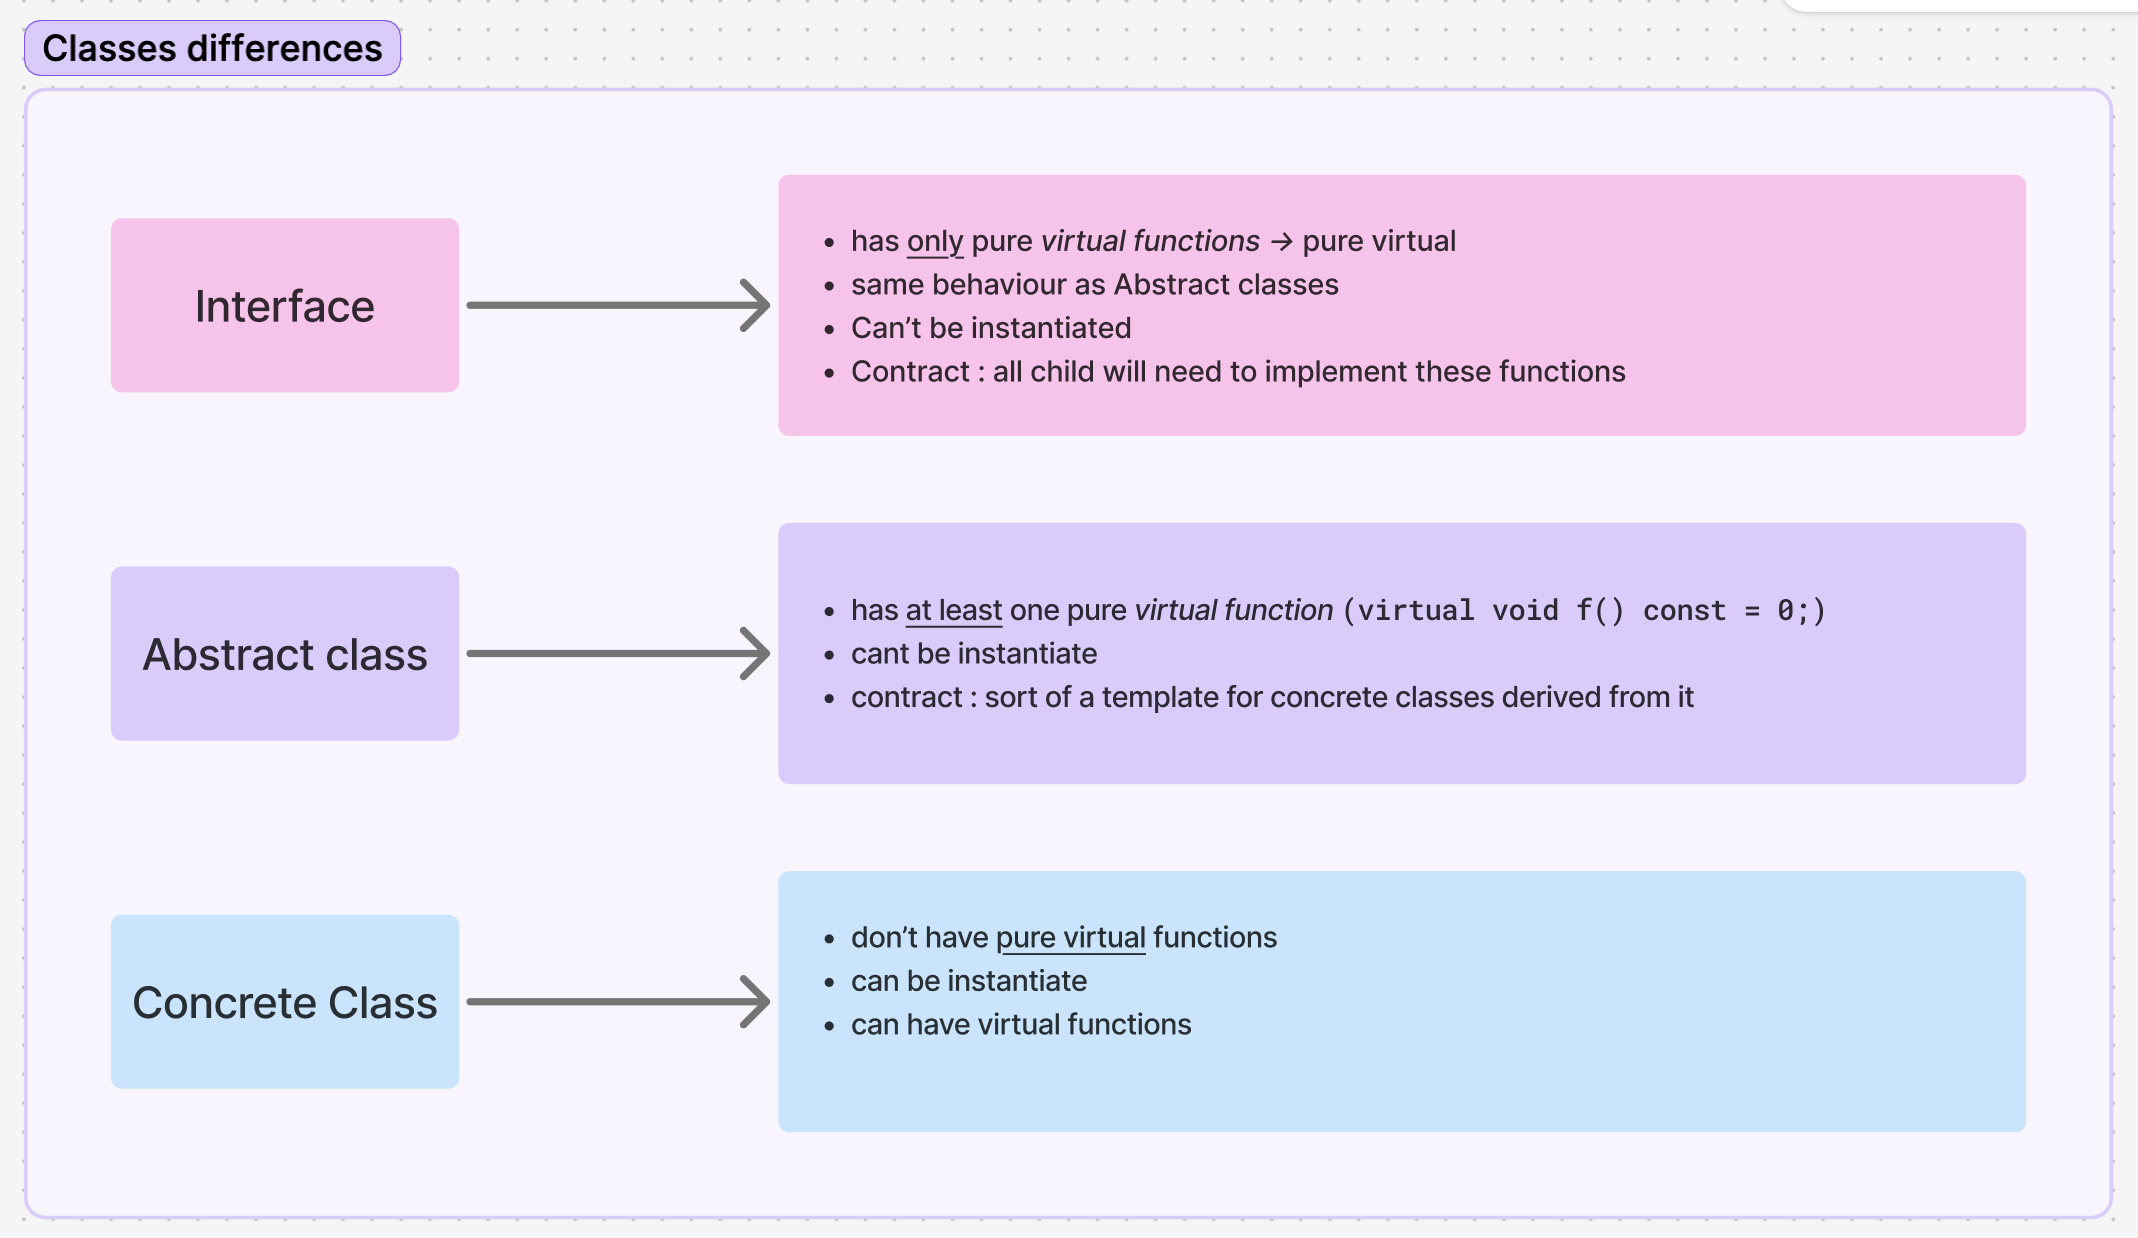
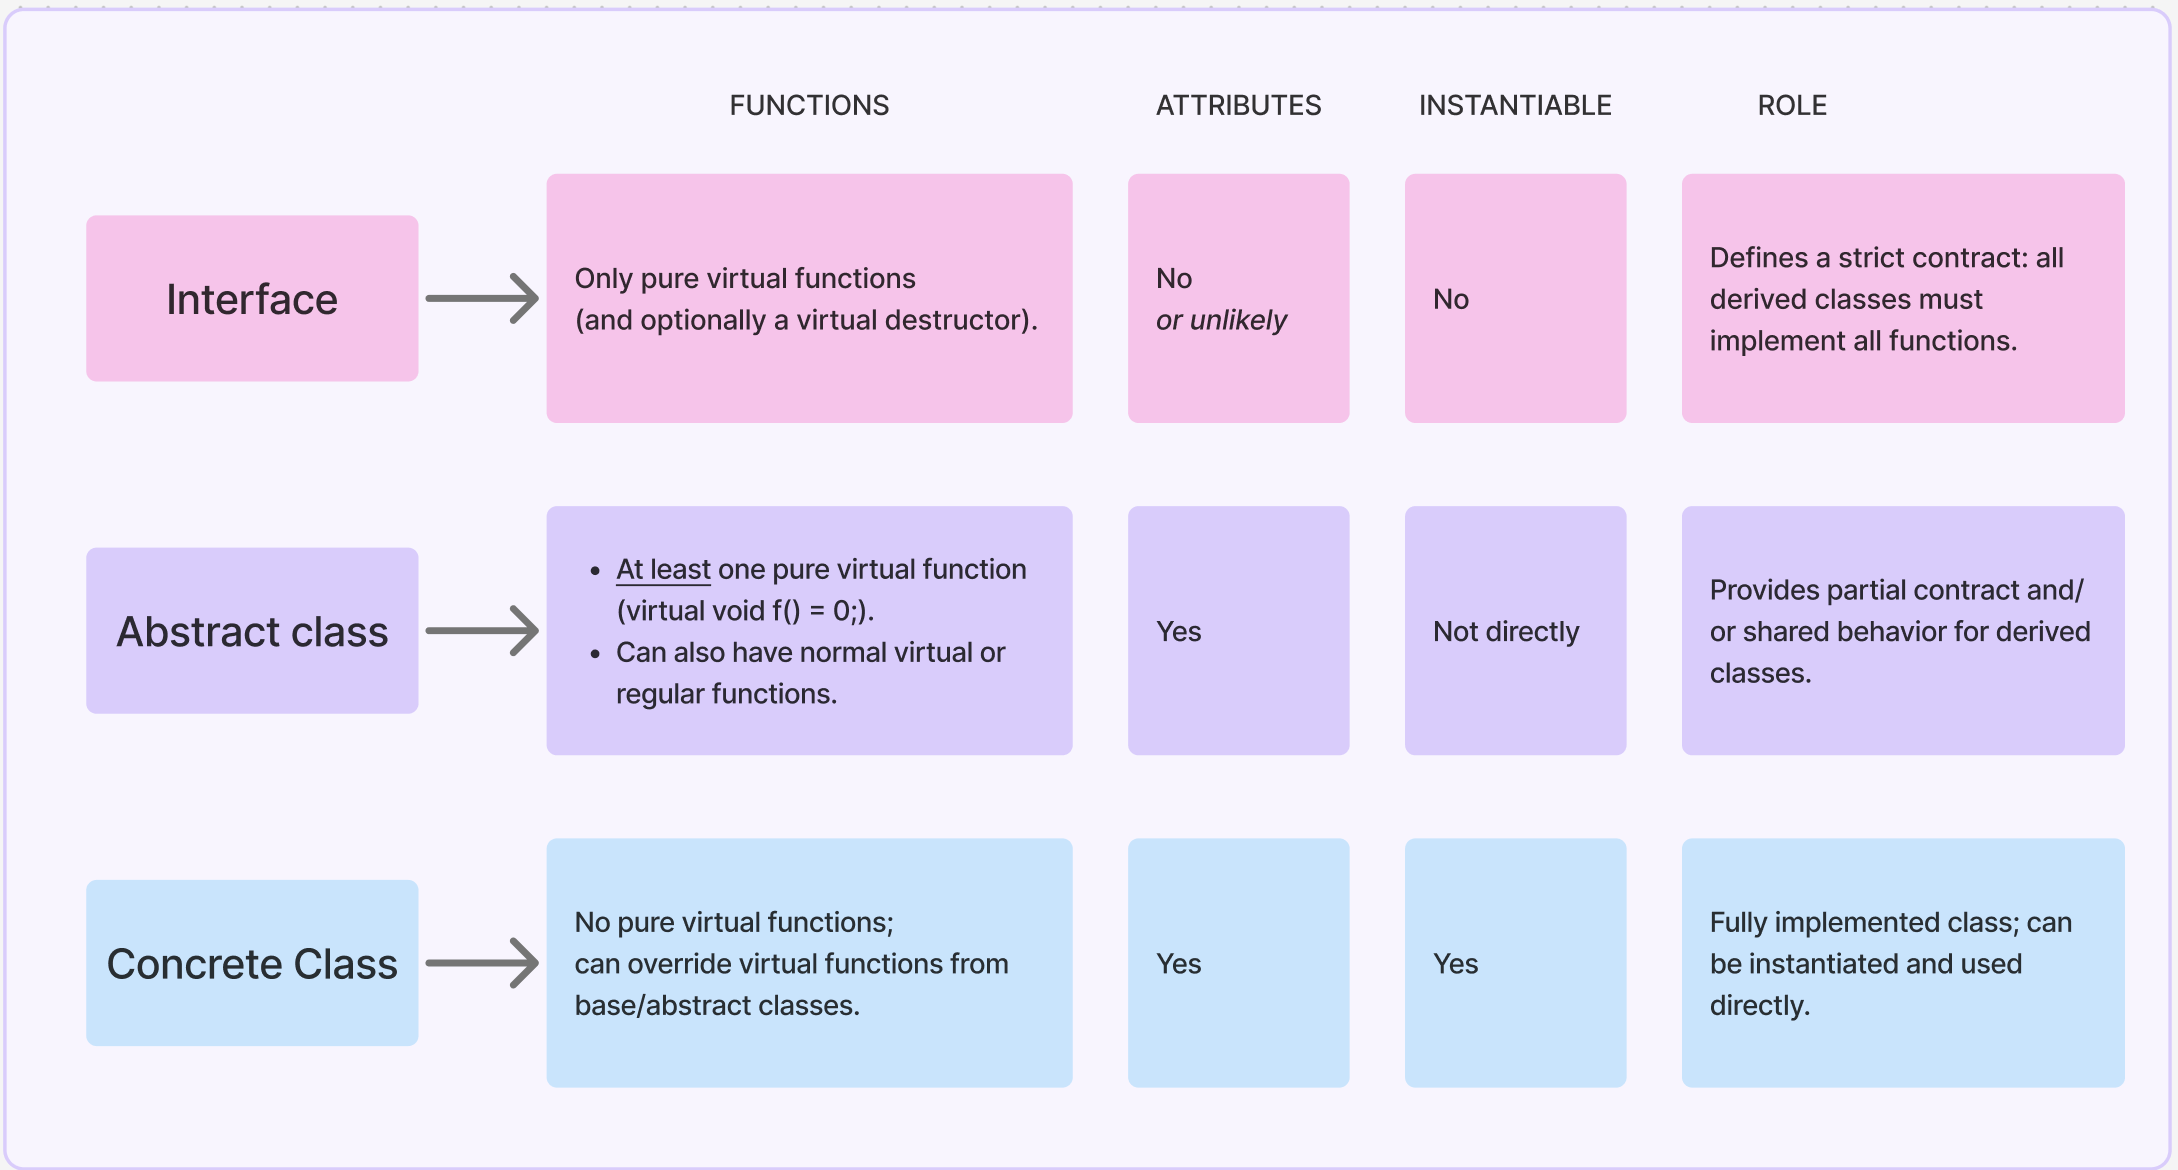
add stuff

Changed region(s): [[0.0, 0.0, 1.0, 1.0], [0.3087, 0.0615, 0.4322, 0.0923], [0.8026, 0.0615, 0.8644, 0.0923]]

diff --git a/CPP04/ex03/src/MateriaSource.cpp b/CPP04/ex03/src/MateriaSource.cpp
@@ -6,7 +6,7 @@
 /*   By: hlichten <marvin@42lausanne.ch>            +#+  +:+       +#+        */
 /*                                                +#+#+#+#+#+   +#+           */
 /*   Created: 2025/12/28 16:13:22 by hlichten          #+#    #+#             */
-/*   Updated: 2026/01/12 22:52:46 by hlichten         ###   ########.fr       */
+/*   Updated: 2026/01/13 01:55:01 by hlichten         ###   ########.fr       */
 /*                                                                            */
 /* ************************************************************************** */
 
@@ -14,6 +14,7 @@
 #include "AMateria.hpp"
 
 // -------- Constructors and Destructor -----------
+
 MateriaSource::MateriaSource() {
 	for (int i = 0; i < 4; i++)
 		_materias[i] = NULL;
@@ -32,8 +33,7 @@ MateriaSource::MateriaSource(const MateriaSource& other) {
 MateriaSource& MateriaSource::operator=(const MateriaSource& other) {
 	if (this != &other) {
 		for (int i = 0; i < 4; i++) {
-//			if (_materias[i] != NULL)
-				delete _materias[i];
+			delete _materias[i];
 			if (other._materias[i])
 				_materias[i] = other._materias[i]->clone();
 			else
@@ -48,11 +48,7 @@ MateriaSource::~MateriaSource() {
 		delete _materias[i];
 }
 
-// -------- Other member functions ---------
-
-// Copies the Materia passed as a parameter and stores it in memory so it can be cloned later.
-// Like the Character, the MateriaSource can know at most 4 Materias. 
-// They are not necessarily unique.
+// -------- Other Member Functions ---------
 
 void MateriaSource::learnMateria(AMateria* m) {
 	if (!m)

diff --git a/CPP04/ex03/src/Cure.cpp b/CPP04/ex03/src/Cure.cpp
@@ -3,15 +3,16 @@
 /*                                                        :::      ::::::::   */
 /*   Cure.cpp                                           :+:      :+:    :+:   */
 /*                                                    +:+ +:+         +:+     */
-/*   By: hlichten <hlichten@student.42.fr>          +#+  +:+       +#+        */
+/*   By: hlichten <marvin@42lausanne.ch>            +#+  +:+       +#+        */
 /*                                                +#+#+#+#+#+   +#+           */
 /*   Created: 2025/12/21 18:37:40 by hlichten          #+#    #+#             */
-/*   Updated: 2025/12/28 19:46:24 by hlichten         ###   ########.fr       */
+/*   Updated: 2026/01/13 01:55:33 by hlichten         ###   ########.fr       */
 /*                                                                            */
 /* ************************************************************************** */
 
 #include "Cure.hpp"
 
+// -------- Constructors and Destructor -----------
 
 Cure::Cure() : AMateria("cure") {
 }
@@ -28,6 +29,8 @@ Cure& Cure::operator=(const Cure& other){
 
 Cure::~Cure(){
 }
+
+// -------- Other Member Functions -----------
 
 AMateria* Cure::clone() const{
     return new Cure(*this);

diff --git a/CPP04/ex03/src/AMateria.cpp b/CPP04/ex03/src/AMateria.cpp
@@ -3,15 +3,17 @@
 /*                                                        :::      ::::::::   */
 /*   AMateria.cpp                                       :+:      :+:    :+:   */
 /*                                                    +:+ +:+         +:+     */
-/*   By: hlichten <hlichten@student.42.fr>          +#+  +:+       +#+        */
+/*   By: hlichten <marvin@42lausanne.ch>            +#+  +:+       +#+        */
 /*                                                +#+#+#+#+#+   +#+           */
 /*   Created: 2025/12/21 18:00:59 by hlichten          #+#    #+#             */
-/*   Updated: 2025/12/28 20:14:01 by hlichten         ###   ########.fr       */
+/*   Updated: 2026/01/13 01:52:43 by hlichten         ###   ########.fr       */
 /*                                                                            */
 /* ************************************************************************** */
 
 #include "AMateria.hpp"
+
 // -------- Constructors and Destructor -----------
+
 AMateria::AMateria() : _type("undefined") {
 }
 

diff --git a/CPP04/ex03/src/Ice.cpp b/CPP04/ex03/src/Ice.cpp
@@ -6,11 +6,13 @@
 /*   By: hlichten <marvin@42lausanne.ch>            +#+  +:+       +#+        */
 /*                                                +#+#+#+#+#+   +#+           */
 /*   Created: 2025/12/21 18:37:38 by hlichten          #+#    #+#             */
-/*   Updated: 2026/01/01 02:57:25 by hlichten         ###   ########.fr       */
+/*   Updated: 2026/01/13 01:54:11 by hlichten         ###   ########.fr       */
 /*                                                                            */
 /* ************************************************************************** */
 
 #include "Ice.hpp"
+
+// -------- Constructors and Destructor -----------
 
 Ice::Ice() : AMateria("ice") {
 }
@@ -27,6 +29,8 @@ Ice& Ice::operator=(const Ice& other){
 
 Ice::~Ice(){
 }
+
+// -------- Other Member Functions -----------
 
 AMateria* Ice::clone() const{
     return new Ice(*this);

diff --git a/CPP04/ex03/src/Character.cpp b/CPP04/ex03/src/Character.cpp
@@ -6,7 +6,7 @@
 /*   By: hlichten <marvin@42lausanne.ch>            +#+  +:+       +#+        */
 /*                                                +#+#+#+#+#+   +#+           */
 /*   Created: 2025/12/28 15:01:08 by hlichten          #+#    #+#             */
-/*   Updated: 2026/01/12 22:59:16 by hlichten         ###   ########.fr       */
+/*   Updated: 2026/01/13 01:55:18 by hlichten         ###   ########.fr       */
 /*                                                                            */
 /* ************************************************************************** */
 
@@ -41,7 +41,7 @@ Character& Character::operator=(const Character& other) {
 	if (this != &other) {
 		_name = other._name;
 		for (int i = 0; i < 4; i++) {
-				delete _inventory[i];
+			delete _inventory[i];
 			if (other._inventory[i])
 				_inventory[i] = other._inventory[i]->clone();
 			else
